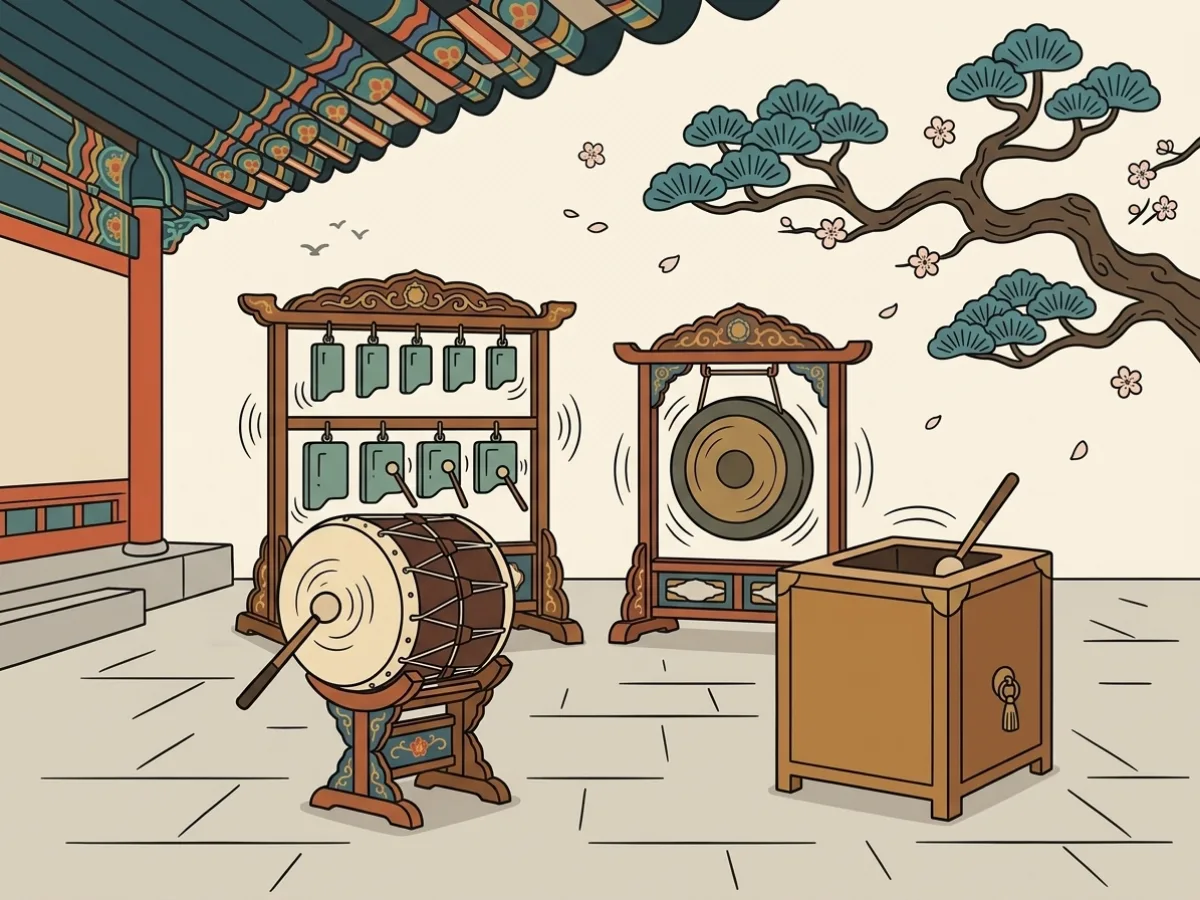
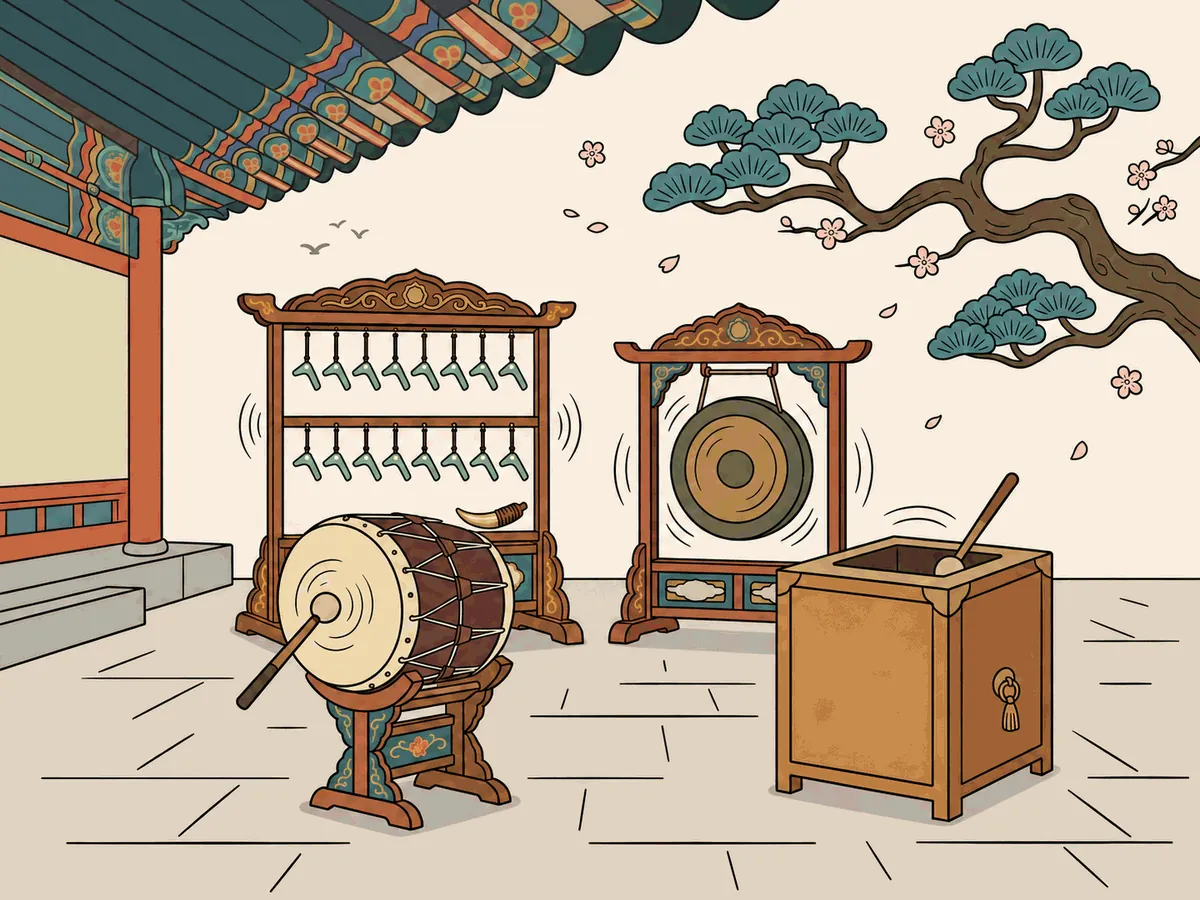
gugak-class: 타악기 마당 그림의 편경 돌을 ㄱ자 16개로 다시 그림

diff --git a/CLAUDE.md b/CLAUDE.md
@@ -26,7 +26,7 @@
 | `stage-plus/` | **세계의 음악극**(2026-11-21 '음악극 탐험대 개선판'에서 이름 바꿈, 화면·첫 화면 카드·현황판 모두. 현황판 목록에서 옛 판 `stage-class`는 뺌) — 음악극 탐험대 **개선판** (ws `stage-plus`, 저장 이름 `stage-plus-v1`, 제출이 원본과 따로 모임). 2026-11-21 ai-bridge T020(아르곤·Claude 설계 비교)·T021(Codex 구현)·T022(그림)로 새로 짬(원본 `stage-class/`는 그대로). pansori-plus 방식(어두운 무대·왼쪽 목차·장 끝 밝은 종이 학습지·수업 모드·`?교사` 정답 보기). 2차시 7장(음악극의 탄생 → 뮤지컬 → 오페라 → 뮤지컬 vs 오페라 \| 판소리 → 골라 탐험: 경극과 가부키 → 용어 연결하기), 내용은 `content.js`. **채점 17문항**(1차시 p1-5·p1-6·p2-5·p2-7·p3-9·p3-10·p3-18·p7-1·p7-2·p7-5, 2차시 p6-2·p6-4·p6-5·p6-8·p8-1·p8-2·p8-3), 문항 번호·정답은 원본 그대로, 타자 빈칸 대신 낱말 칩·고르기. p8-2 보기의 '미에'는 '창'으로 바꿈(선생님 결정). 서술·짐작(p1-1, t1, x1, x2)은 점수 없이 전송. 1장 공연 세 편은 '공연 A·B·C'로 정체를 가리고 짝 이야기 뒤 공개(1장 머리 그림도 그때 보임). 비교 장 그림은 학습지 채점 뒤에만. 골라 탐험(경극·가부키)은 칠판으로 영상 둘을 다 같이 보고 태블릿은 글 카드만, 채점 안 함. 확장 영상은 '더 알아보기'. 본문에 정답 확인 버튼 없음. 그림 `img/stage-*.webp` 7장(생성) + `stage-pansori.webp`(pansori-plus 재사용), 장 머리 `head-*.webp`. **`V.recitative` 영상 시작 초가 0**(전체 실황)이라 레치타티보 구간을 선생님이 정해야 함. '더 알아보기'를 접으면 그 안 영상이 멈춤. 현황판 `DASH_SHEETS`에 넣음(2026-11-21 허브 새 버전 12 배포, 현황판에 보임 확인). 첫 화면 카드 있음(2026-11-21, 원본 `stage-class` 카드는 선생님 요청으로 빼고 그 자리에, 원본은 주소로 그대로 열림). 2026-11-21(ai-bridge T027) 선생님이 "거무튀튀하다"고 해서 **밝은 자두색 테마**(`#f7f4f9` 바탕·강조 `#a2386b`, 라이트 qr-dock)로 바꾸고 장 머리 그림을 밝은 바탕용으로 다시 자름, 목차 맨 위 '접기' 버튼(`#btnCollapse`, 접은 상태는 localStorage `stage-plus-side`, 접으면 왼쪽 위 '목차' 버튼으로 다시 엶) |
 | `world-music/` | 방구석 세계 음악 여행 **수업 화면 + 학습지** (ws `world-music`). 2026-11-21 교과서 24~25쪽으로 새로 만듦(ai-bridge T025 구현·T026 그림), 2차시 11장, 채점 17문항, 장면 그림 6장 + 장 머리 11장. 첫 화면 카드 있음. 2026-11-21(T027) **밝은 청록 테마**(`#f3f8f8` 바탕·강조 `#138a80`, 라이트 qr-dock), 장 머리 그림 다시 자름, 목차 '접기' 버튼(localStorage `world-music-side`) — stage-plus와 같은 방식, 색만 다름 |
 | `gugak-plus/` | 국악기 학습지 **개선판** (ws `gugak-plus`, 저장 이름 `gugak-plus-v1`). 2026-11-14 `gugak/`을 복사해 시작(원본은 그대로 둠). 문항은 `questions.js`(분류·복습), 제출에 '복습 첫 오답 문항' 추가. 교과서 쪽(청소년을 위한 국악 관현악 입문)에 맞춰 **나발·나각을 더해 22종**(관악기 9, 훈 다음). 화면 번호는 목록 순서, 악기 수는 `instruments.length`. 두 악기 영상은 10:38(638초)부터, 함께 소개되는 구간이라 안내 문구가 붙음. 첫 화면 QR은 숨김. 학습지 모음 첫 화면 카드는 2026-11-15 선생님 요청으로 뺌(`gugak-class/`로 대체, 주소로는 그대로 열림). 중1·중2 내용은 나누지 않음(선생님 결정) |
-| `gugak-class/` | 국악기 **수업 화면 + 학습지** (ws `gugak-class`, 저장 이름 `gugak-class-v1`). 2026-11-15 `gugak-plus/`를 바탕으로 pansori-plus·dance-class 방식으로 새로 짬(원본은 그대로). 2차시, 22종을 관악기 9·현악기 5·타악기 8 장으로 나눔. 장 끝 밝은 종이 학습지, '수업 모드'(정답·✓ 숨김, 켜고 끌 때 정답 보기 초기화), `?교사` 정답 보기, 듣기 카드 20개(video-data.js의 listen 구간 = 해설 없이 그 악기 소리만 나오는 부분, 영상 소리 스펙트로그램으로 맞춤. 나발·나각, 어+부 묶음 카드는 두 구간을 이어 틂). 장 머리 그림 `head-*.webp`는 `img/stage-orchestra.webp`를 자른 것, 마당 그림 `madang-*.webp` 4장(관악기·현악기·타악기·귀로 구별하기, 생성) 2026-11-22에 넣음(없으면 그림 칸 숨김). madang-perc의 편경 돌이 ㄱ자가 아니라 네모로 그려짐(나중에 손질 후보). 방향키로 지나간 선택지는 첫 답으로 안 셈(Enter·Space·문항 벗어날 때 확정). 제출에 '악기 확인 고른 답' 포함. 첫 화면 카드 있음(맨 위). 2026-11-20(ai-bridge T016): 1장 맨 위 '오늘의 질문' + 짐작하고 듣기 카드 3장(대금·가야금·장구, `WARMUP`, 고른 답은 저장·제출 안 함), 5장 맨 위에서 질문 회수, 소리·영상에 칠판/태블릿 표시 |
+| `gugak-class/` | 국악기 **수업 화면 + 학습지** (ws `gugak-class`, 저장 이름 `gugak-class-v1`). 2026-11-15 `gugak-plus/`를 바탕으로 pansori-plus·dance-class 방식으로 새로 짬(원본은 그대로). 2차시, 22종을 관악기 9·현악기 5·타악기 8 장으로 나눔. 장 끝 밝은 종이 학습지, '수업 모드'(정답·✓ 숨김, 켜고 끌 때 정답 보기 초기화), `?교사` 정답 보기, 듣기 카드 20개(video-data.js의 listen 구간 = 해설 없이 그 악기 소리만 나오는 부분, 영상 소리 스펙트로그램으로 맞춤. 나발·나각, 어+부 묶음 카드는 두 구간을 이어 틂). 장 머리 그림 `head-*.webp`는 `img/stage-orchestra.webp`를 자른 것, 마당 그림 `madang-*.webp` 4장(관악기·현악기·타악기·귀로 구별하기, 생성) 2026-11-22에 넣음(없으면 그림 칸 숨김). madang-perc의 편경 돌은 같은 날 ㄱ자 16개(2×8)로 다시 그림(ai-bridge T028). 방향키로 지나간 선택지는 첫 답으로 안 셈(Enter·Space·문항 벗어날 때 확정). 제출에 '악기 확인 고른 답' 포함. 첫 화면 카드 있음(맨 위). 2026-11-20(ai-bridge T016): 1장 맨 위 '오늘의 질문' + 짐작하고 듣기 카드 3장(대금·가야금·장구, `WARMUP`, 고른 답은 저장·제출 안 함), 5장 맨 위에서 질문 회수, 소리·영상에 칠판/태블릿 표시 |
 | `gugak-quiz/` | 소리탐정 · 국악기 그림 퀴즈 **22문항**(2026-11-14 나발·나각 추가: `page-*.js`의 `Uo`(사진)·`Wo`(문제) 배열에 직접 넣고 `instruments/21.jpg`·`22.jpg`, 20→22 문구 수정). ChatGPT 호스팅(gugak-instrument-quiz…chatgpt.site)의 **빌드된 Next.js 결과물**을 2026-11-12에 그대로 받아 옴(원본 소스 없음). GitHub 하위 경로에서 돌도록 `index.html`의 `/_next/`·`/site-qr.png`, `page-*.js`의 `/instruments/`·`/site-qr.png`, `index-*.js`의 미리 불러오기 함수(`return`/`+e`)를 `/classroom-hub/gugak-quiz/`로 고침, Cloudflare 스크립트 제거. "선생님께 결과 보내기"(ChatGPT 서버 `/api/teacher-quiz`)는 선생님 요청으로 결과 화면 버튼과 창을 `page-*.js`에서 지움(2026-11-12, 허브 연결도 원치 않음). 2026-11-20(ai-bridge T019, 수행평가 대비): 참여 QR(`site-qr.png`)과 QR 창 주소(`page-*.js`의 `$o`)를 이 저장소 주소로 바꿈. 문제 카드에 '소리 듣기' 버튼을 붙이는 `listen.js`(번들은 안 고치고 `index.html` 끝에서 불러옴, MutationObserver로 `.observation-note` 뒤에 끼움): 보이지 않는 youtube-nocookie iframe으로 그 악기 구간만 소리로 틂(구간은 `gugak-class/video-data.js`의 listen과 같음). 선택지 순서는 원래 번들이 불러올 때·다시 풀 때 섞음. 왼쪽 위 로고 링크는 `/`(github.io 404)에서 `/classroom-hub/gugak-quiz/`로 고침(`index.html`·`page-*.js` 두 곳, 2026-11-20). 허브 미연결, 첫 화면 카드 없음 |
 | `pansori-class/` | 판소리와 창극 수업 화면 + 학습지 (ws `pansori-class`, 저장 이름 `pansori-class-v1`). 2026-11-14 교과서 두 쪽으로 새로 만듦, Codex·Gemini 설계 토론(ai-bridge T003·T004·T006) 결과 반영. 6장(판소리와 소리판 → 다섯 마당 이야기 → 대목과 장단 → 사랑가 두 무대 → 창극이란? → 오늘의 판소리) → `#submit`. 자동 채점 9 + 서술 4(서술은 점수 없이 전송). '다섯 마당 이야기'는 11-15 교과서 밖 내용으로 덧붙인 작품 카드(`STORIES`: 한 줄 소개·흥미 포인트·줄거리·주제·대표 대목), 이야기 해석은 채점하지 않음. 2차시(45분×2) 기준. 꼭 듣는 영상 5편, 나머지는 '더 들어보기'. 장단은 이름만 채점(빠르기 짐작은 점수·저장 없음). 2차시로 나눌 땐 대목과 장단 장(`split: true`) 뒤에서 끊음(교사 모드 첫 화면 안내). 문구·문항·영상은 `content.js`만 고치면 됨. 그림은 직접 그린 SVG(교과서 그림·사진은 쓰지 않음). 학습지 모음 첫 화면 카드는 2026-11-15 선생님 요청으로 뺌(`pansori-plus/`로 대체, 주소로는 그대로 열림) |
 | `pansori-plus/` | 판소리와 창극 **개선판** (ws `pansori-plus`, 저장 이름 `pansori-plus-v1`, 제출이 원본과 따로 모임). 2026-11-15 ai-bridge T008 토론(Codex·아르곤) 결과로 새로 짬(원본 `pansori-class/`는 그대로). dance-class처럼 따뜻한 어두운 무대 + 왼쪽 목차(1차시·2차시 묶음, 장 아래 '학습지 n/m' 바로가기 `#c1?sheet`) + 아래 고정 페이지 넘김. 강조색은 주홍 하나, 이모지 없음, 학습지는 장 끝의 밝은 종이 판. 문항 id·이름·정답은 원본과 같음. '수업 모드'(메뉴 숨김·전체 화면·큰 글씨, 학습지 숨김). 내용은 `content.js`, 화면은 `app.js`·`style.css`. 이름 칩은 오른쪽 위로 옮김. 첫 화면 카드 있음. 2026-11-19 ai-bridge T005(아르곤 초안 + Claude 사실 확인): '다섯 마당 이야기' 탭에 장면 카드(`STORIES.*.acts`: t 제목·x 본문·say/who 대사·cut 다음 궁금증·mark 명장면 배지, 마당당 5~6장면)를 넣어 '다음 장면'으로 하나씩 펼침, `story`는 '세 줄 요약'으로 남김. 그 장 시간 13→15분(1차시 합 37분). 같은 날 T008: 이 장 학습지 2→8문항(s3~s8 추가, s2 서술은 맨 끝), 새 문항 형식 `order`(눌러서 순서 매기기, 답은 배열), 자동 채점 9→15점(그 전에 제출한 반은 9점 만점). **2026-11-20 수업 다시 짜기(ai-bridge T009·T010·T016) 반영**: 선생님이 "어렵고 정리가 안 되고 동기 부여가 없다"고 해서 7장(열기 → 소리판 → 다섯 마당 골라 읽기 → 장면과 장단 | 판소리 vs 창극 → 오늘의 판소리 → 오늘 배운 것 한 장 정리)으로 바꿈. 열기는 이날치 '좌우나졸' → 옛 '좌우나졸' 대조 + 오늘의 질문(끝 장에서 회수). 열기 영상은 정체를 가림('영상 A·B', 썸네일 대신 글자 판, '두 영상의 정체' 상자에서 공개). 세부 줄거리 문항 s1·s3~s8 뺌 → **자동 채점 12점**(그 전 반은 15점 만점). 다섯 마당 4컷 그림 `img/cut-*.webp` 20장(생성). 영상마다 '칠판 · 다 같이'/'태블릿 · 각자 짧게' 표시. 저장 이름 `pansori-plus-v2`로 올림(ws는 `pansori-plus` 그대로). 시험 폴더 `pansori-plus-step1-test/`(git 제외)에서 만든 뒤 옮김 |
